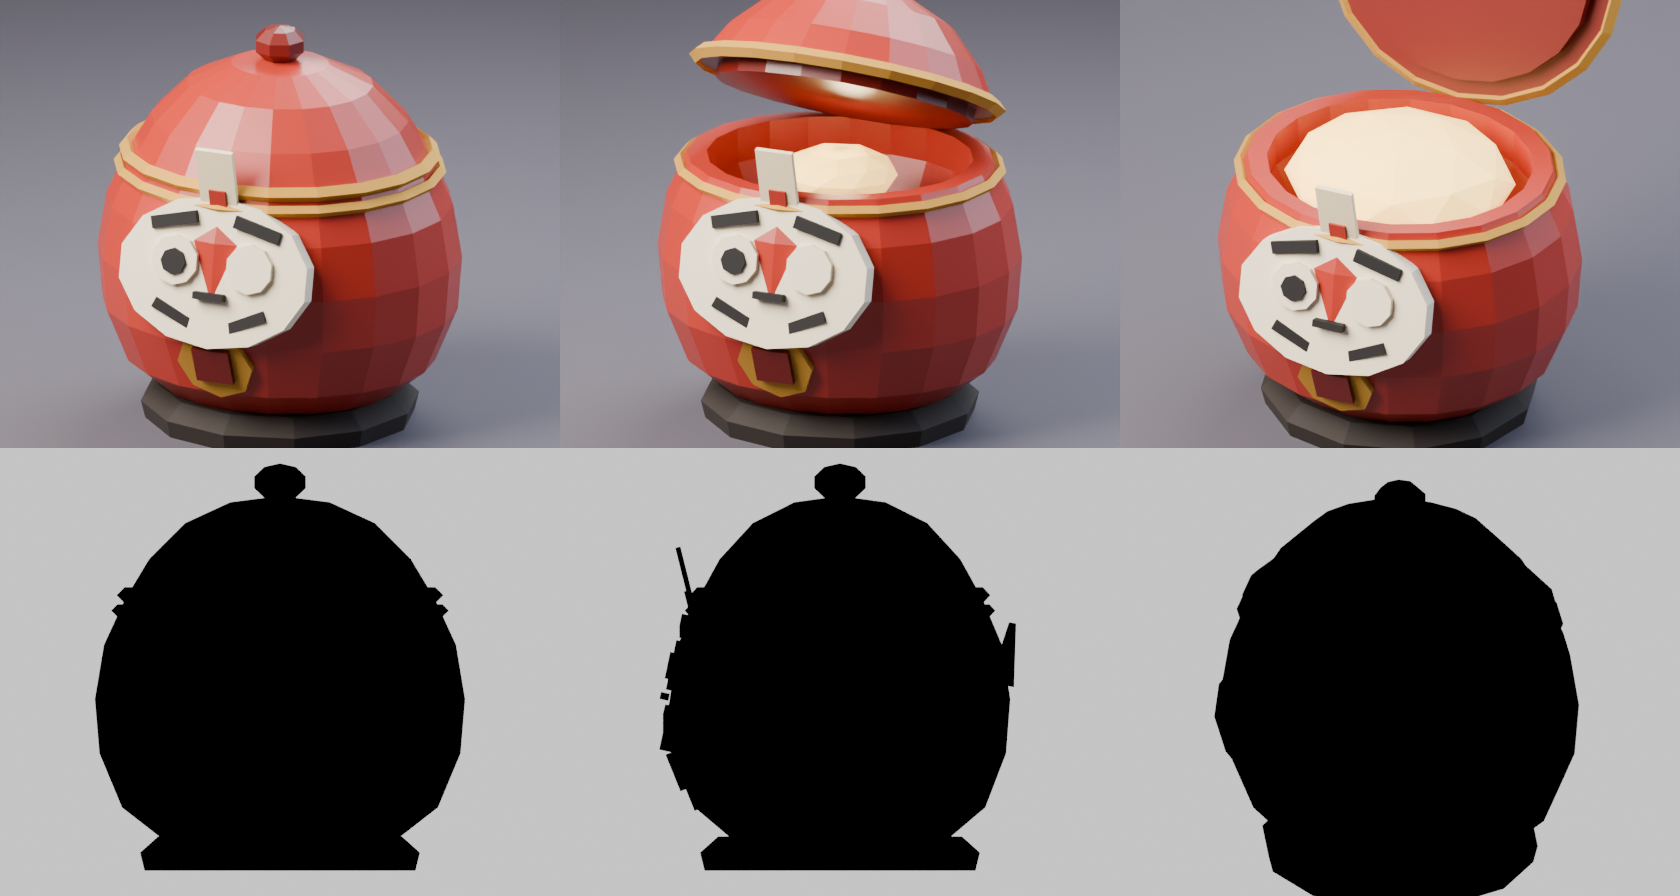
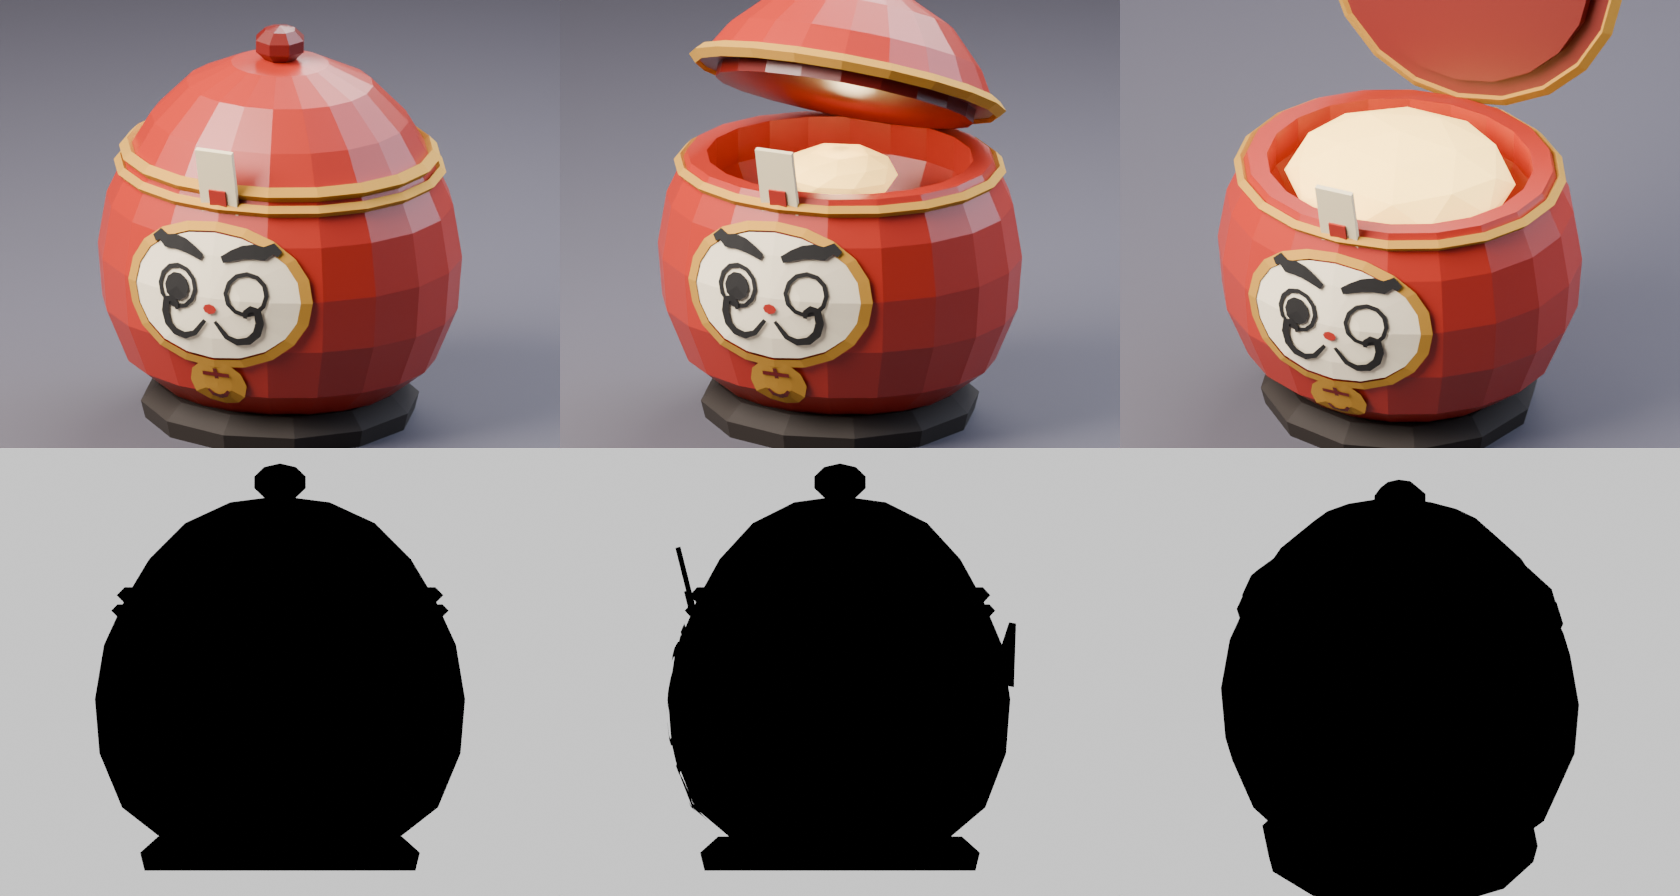
Rương Nhật Bản: mặt Daruma dán ôm theo thân cong, rõ nét hơn
Claude-Session: https://claude.ai/code/session_01QKQCdY7XAzXcRTJerCPhdW

diff --git a/Tools/Blender/make_chest_nhat_ban.py b/Tools/Blender/make_chest_nhat_ban.py
@@ -92,26 +92,86 @@ bpy.ops.wm.read_factory_settings(use_empty=True)
 L["Body"].append(lathe("shell", BODY + [(0.150, CUT), (0.150, 0.26), (0.11, 0.17), (0, 0.16)], "lacquer", sy=0.92))
 L["Body"].append(lathe("inner", [(0, 0.162), (0.12, 0.17), (0.148, 0.255)], "interior", sy=0.92))
 L["Body"].append(lathe("base", [(0, 0.0), (0.15, 0.0), (0.155, 0.02), (0.135, 0.038), (0, 0.038)], "wood", seg=12))
-# face: cream oval plate on the front, eyes (one painted, one blank: the wish is not granted yet)
-fz = 0.215
-L["Body"].append(prim(bpy.ops.mesh.primitive_cylinder_add, "face", front(fz, inset=0.012), rot=(math.radians(90 - 12), 0, 0), scale=(0.115, 0.085, 1), vertices=14, radius=1, depth=0.02))
+# face: decals wrapped onto the curved egg (no flat plates), so it reads as a Daruma from far away:
+# cream face framed by a gold trim, big round eyes (left painted, right still blank: wish not granted yet),
+# thick "crane" brows, curly "turtle" moustache and a beard fringe.
+def surf(u, z, off):
+    """Map (arc length u along the front, height z) onto the egg surface, pushed out by off."""
+    r = body_r(z) + off
+    phi = u / max(r, 1e-3)
+    return (r * math.sin(phi), -0.92 * r * math.cos(phi), z)
+
+
+def decal(name, pts2d, faces, material, off):
+    """2D shape (u, v) in metres, wrapped onto the surface; v is height."""
+    me = bpy.data.meshes.new(name)
+    me.from_pydata([surf(u, v, off) for u, v in pts2d], [], faces)
+    o = bpy.data.objects.new(name, me); bpy.context.scene.collection.objects.link(o)
+    me.materials.append(mat(material))
+    return o
+
+
+def ellipse(cu, cv, a, b, material, off, n=16, rings=3, hole=0.0):
+    """Disc (or ring when hole > 0) subdivided in rings so it bends with the surface."""
+    pts, faces = [], []
+    radii = [hole + (1 - hole) * k / rings for k in range(rings + 1)]
+    start = 0
+    if hole == 0:
+        pts.append((cu, cv)); radii = radii[1:]
+    for k, t in enumerate(radii):
+        for i in range(n):
+            ang = 2 * math.pi * i / n
+            pts.append((cu + a * t * math.cos(ang), cv + b * t * math.sin(ang)))
+    if hole == 0:
+        faces += [(0, 1 + i, 1 + (i + 1) % n) for i in range(n)]
+        start = 1
+    for k in range(len(radii) - 1):
+        a0, b0 = start + k * n, start + (k + 1) * n
+        faces += [(a0 + i, b0 + i, b0 + (i + 1) % n, a0 + (i + 1) % n) for i in range(n)]
+    return decal("e", pts, faces, material, off)
+
+
+def stroke(centre, width, material, off):
+    """Thick brush stroke along a 2D polyline; width tapers at both ends."""
+    pts, faces, m = [], [], len(centre)
+    for i, (u, v) in enumerate(centre):
+        u0, v0 = centre[max(i - 1, 0)]; u1, v1 = centre[min(i + 1, m - 1)]
+        du, dv = u1 - u0, v1 - v0; ln = math.hypot(du, dv) or 1
+        w = width * (0.35 + 0.65 * math.sin(math.pi * (i + 0.5) / m))
+        pts += [(u - dv / ln * w / 2, v + du / ln * w / 2), (u + dv / ln * w / 2, v - du / ln * w / 2)]
+    faces = [(2 * i, 2 * i + 1, 2 * i + 3, 2 * i + 2) for i in range(m - 1)]
+    return decal("s", pts, faces, material, off)
+
+
+def arc(cu, cv, r, a0, a1, n=7, sy=1.0):
+    return [(cu + r * math.cos(math.radians(a0 + (a1 - a0) * i / (n - 1))), cv + sy * r * math.sin(math.radians(a0 + (a1 - a0) * i / (n - 1)))) for i in range(n)]
+
+
+fz = 0.19
+B = L["Body"]
+B.append(ellipse(0, fz, 0.105, 0.072, "face", 0.002, n=20, rings=3))                    # cream face
+B.append(ellipse(0, fz, 0.118, 0.084, "gold", 0.0035, n=20, rings=1, hole=0.885))        # gold frame
 for sx, painted in ((-1, True), (1, False)):
-    e = front(fz + 0.012, sx * 0.045, inset=-0.004)
-    L["Body"].append(prim(bpy.ops.mesh.primitive_cylinder_add, "face", e, rot=(math.radians(78), 0, 0), scale=(0.028, 0.028, 1), vertices=10, radius=1, depth=0.01))
+    eu = sx * 0.042
+    B.append(ellipse(eu, fz + 0.008, 0.026, 0.026, "ink", 0.004, n=12, rings=1, hole=0.8))   # eye outline
     if painted:
-        p = (e[0], e[1] - 0.006, e[2])
-        L["Body"].append(prim(bpy.ops.mesh.primitive_cylinder_add, "ink", p, rot=(math.radians(78), 0, 0), scale=(0.015, 0.015, 1), vertices=8, radius=1, depth=0.006))
-    # thick crane-shaped brows
-    b = front(fz + 0.055, sx * 0.05, inset=-0.006)
-    L["Body"].append(prim(bpy.ops.mesh.primitive_cube_add, "ink", b, rot=(math.radians(-12), sx * math.radians(14), 0), scale=(0.028, 0.006, 0.007), size=2))
-    # beard swirls
-    w = front(fz - 0.05, sx * 0.04, inset=-0.006)
-    L["Body"].append(prim(bpy.ops.mesh.primitive_cube_add, "ink", w, rot=(math.radians(-12), -sx * math.radians(25), 0), scale=(0.03, 0.006, 0.006), size=2))
-L["Body"].append(prim(bpy.ops.mesh.primitive_cube_add, "ink", front(fz - 0.022, inset=-0.006), rot=(math.radians(-12), 0, 0), scale=(0.018, 0.005, 0.004), size=2))
-# gold belly emblem (abstract "fortune" plaque)
-bz = 0.11
-L["Body"].append(prim(bpy.ops.mesh.primitive_cylinder_add, "gold", front(bz, inset=0.004), rot=(math.radians(90 + 22), 0, 0), scale=(0.045, 0.045, 1), vertices=8, radius=1, depth=0.012))
-L["Body"].append(prim(bpy.ops.mesh.primitive_cube_add, "lacquer_dk", front(bz, inset=-0.004), rot=(math.radians(22), 0, 0), scale=(0.022, 0.005, 0.022), size=2))
+        B.append(ellipse(eu, fz + 0.008, 0.016, 0.016, "ink", 0.005, n=10, rings=1))          # painted pupil
+    # crane brows: thick sweeping arcs that flick upward at the outer end
+    brow = [(sx * u, fz + 0.045 + 0.012 * math.sin(math.pi * k / 6) + (0.01 if k > 4 else 0))
+            for k, u in enumerate([0.012, 0.024, 0.036, 0.048, 0.06, 0.07, 0.078])]
+    B.append(stroke(brow, 0.016, "ink", 0.005))
+    # turtle moustache: curl from the nose outward and up into a swirl
+    must = [(sx * 0.006, fz - 0.026)] + [(sx * u, v) for u, v in arc(0.034, fz - 0.024, 0.024, 200, 360, 6)][1:] \
+        + [(sx * u, v) for u, v in arc(0.050, fz - 0.016, 0.009, 0, 200, 5)][1:]
+    B.append(stroke(must, 0.010, "ink", 0.005))
+# nose (a chin-beard fringe was tried and read as skull teeth, so it was dropped)
+B.append(ellipse(0, fz - 0.012, 0.008, 0.006, "lacquer", 0.005, n=8, rings=1))
+# gold belly emblem: round medallion with a stylised "fortune" mark, wrapped too
+bz = 0.085
+B.append(ellipse(0, bz, 0.034, 0.03, "gold", 0.003, n=12, rings=2))
+B.append(stroke([(-0.016, bz + 0.012), (0.016, bz + 0.012)], 0.006, "lacquer_dk", 0.0045))
+B.append(stroke([(0, bz + 0.02), (0, bz - 0.02)], 0.006, "lacquer_dk", 0.0045))
+B.append(stroke(arc(0, bz - 0.004, 0.013, 200, 340, 5), 0.006, "lacquer_dk", 0.0045))
 # gold side swirls (stylised cheek clouds)
 for sx in (-1, 1):
     L["Body"].append(prim(bpy.ops.mesh.primitive_torus_add, "gold", (sx * 0.19, 0, 0.17), rot=(0, math.radians(90), 0), major_radius=0.03, minor_radius=0.006, major_segments=10, minor_segments=4))

diff --git a/Docs/Art/BanGiao3D.md b/Docs/Art/BanGiao3D.md
@@ -194,7 +194,7 @@ Tham số: độ cao đường nối nắp theo đơn vị nguồn (0,03, nằm 
 ## Rương Nhật Bản cổ (dựng bằng Blender, tạm)
 
 - File: `Assets/_Project/Art/Chests/Chest_NhatBan.glb`. Hình: búp bê Daruma tròn (một mắt đã tô), chỏm đầu là nắp. Ý tưởng: [ruong-nhat-ban](../../docs/superpowers/specs/2026-11-24-ruong-nhat-ban-design.md).
-- 1.632 tam giác (không tính Glow). Cao ~0,43 m, rộng ~0,41 m. Vật liệu đơn sắc, không texture.
+- 1.694 tam giác (không tính Glow). Mặt, mắt, lông mày, ria và huy hiệu bụng là lớp "decal" dán ôm theo mặt cong của thân (không phải tấm phẳng). Cao ~0,43 m, rộng ~0,41 m. Vật liệu đơn sắc, không texture.
 - Lớp: `Chest_NhatBan` (root) → `Body`, `Lid` (gốc ở bản lề sau, xoay trục X, mở bằng góc âm), `Binding` (dây vàng), `Seal` (lá bùa giấy ở khe trước), `Glow` (ẩn bằng scale).
 - Chạy lại: `pip install bpy pillow` rồi `python Tools/Blender/make_chest_nhat_ban.py`; ảnh: `python Tools/Blender/render_chest_nhat_ban.py 40 560` → `Assets/_Project/Art/Source/render_chest_nhat_ban_open.png`.
 - Chưa chạy trong Unity, chưa gán ID/chủ đề vào dữ liệu game.
